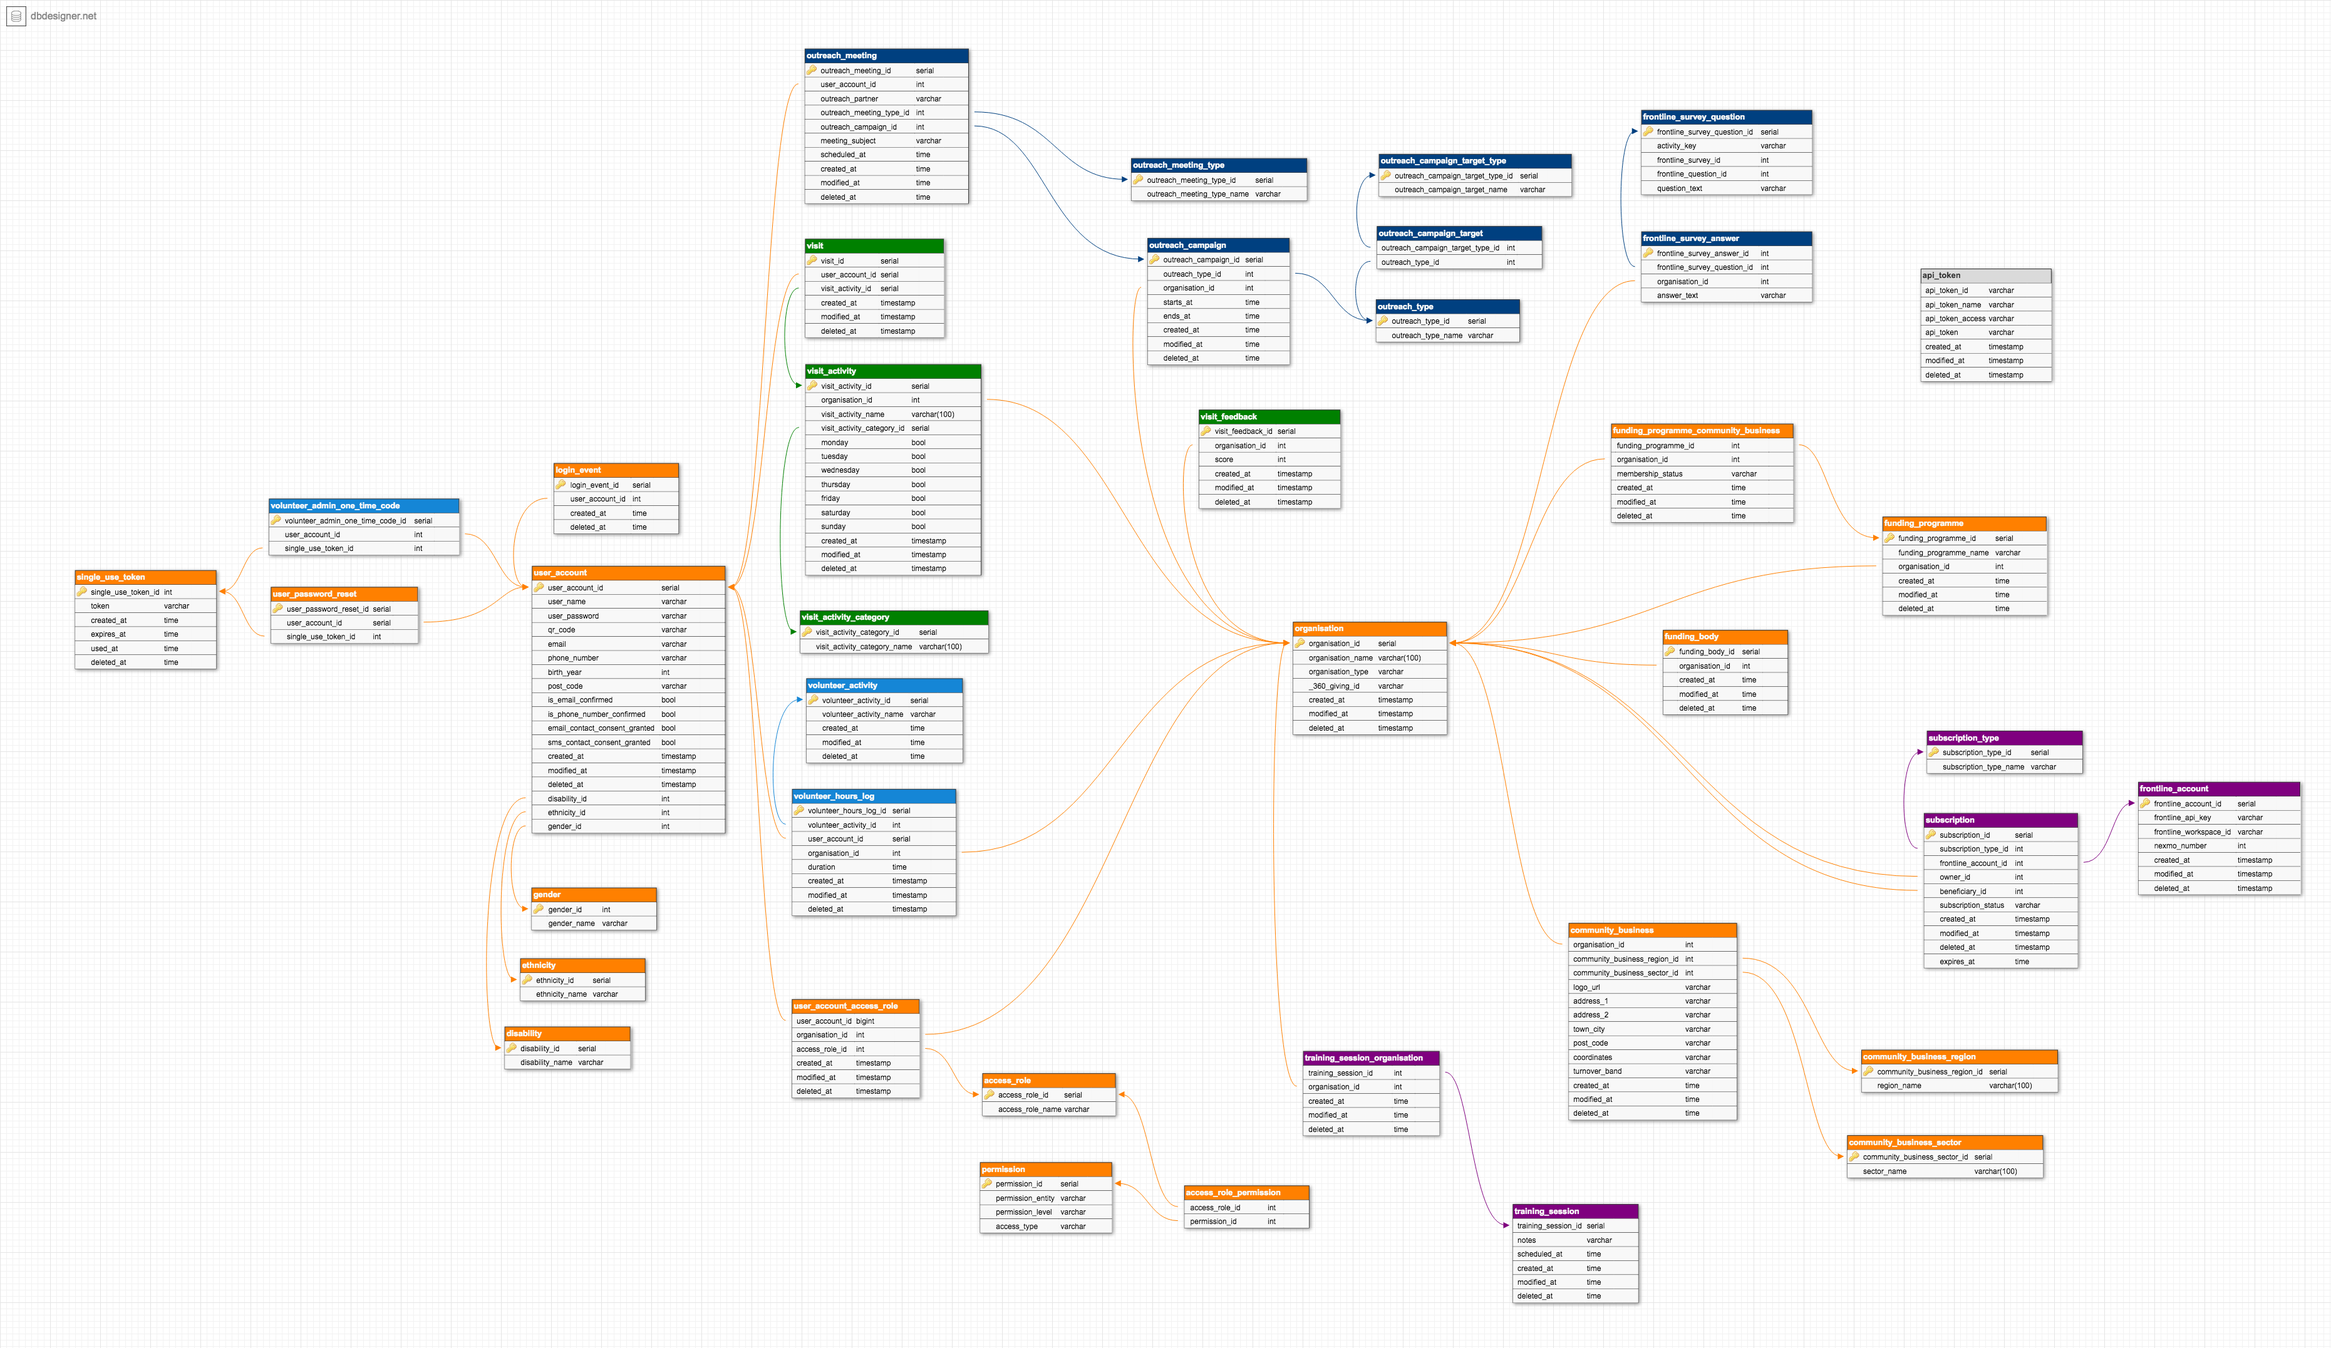
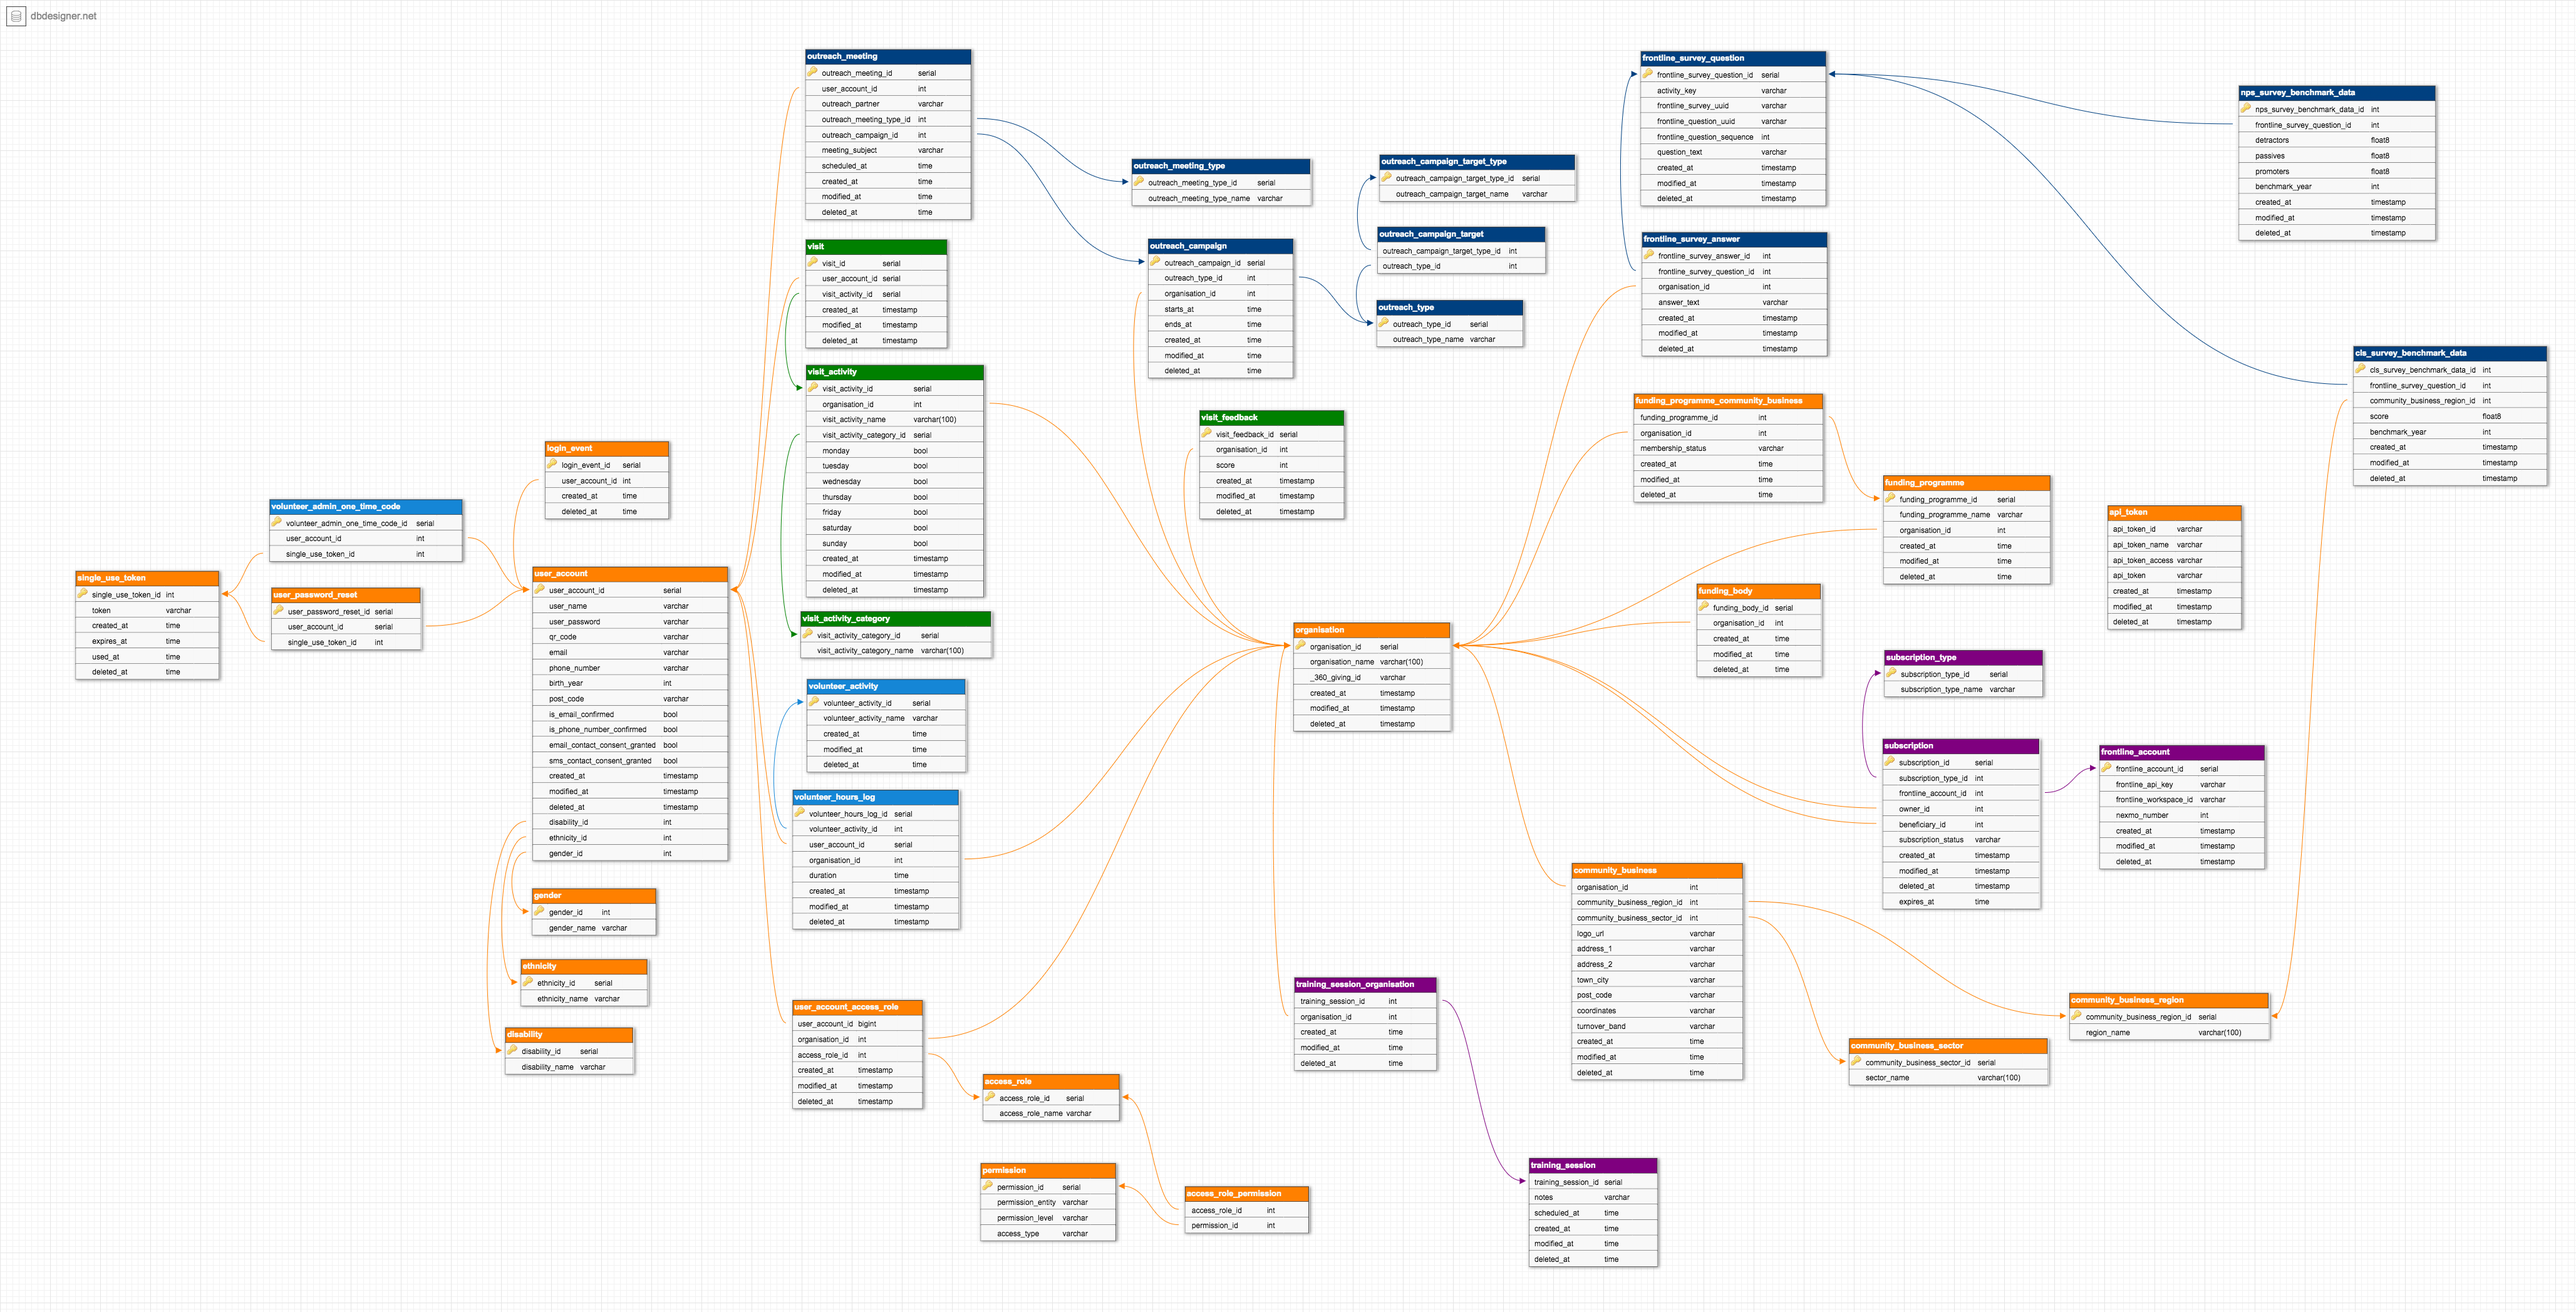
📝 add survey benchmarks section to docs
Also update the schema diagram

diff --git a/docs/survey_benchmarks.md b/docs/survey_benchmarks.md
@@ -1,0 +1,5 @@
+# Survey Benchmarks
+
+Some of the surveys conducted on the Twine/FrontlineSMS platform have national benchmarks that their results may be compared against.
+
+These benchmark numbers are provided by the Twine API for the FrontlineSMS dashboard. The numbers are updated annually. At the moment, the static files are stored in `/database/static/20**_(cls|nps)_benchmarks.json`, and read in the relevant seed files.

diff --git a/docs/README.md b/docs/README.md
@@ -10,3 +10,4 @@
 7. [Permissions](./permissions.md)
 8. [Stack](./stack.md)
 9. [Deployment](./deployment.md)
+10. [Survey Benchmarks](./survey_benchmarks.md)
